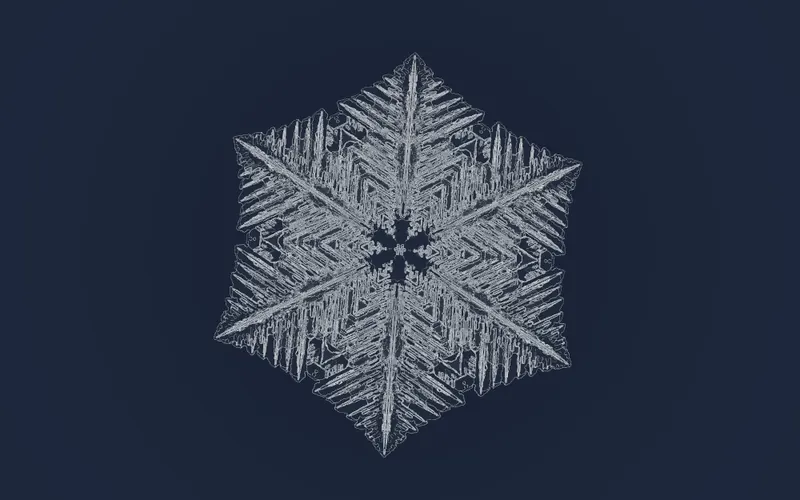
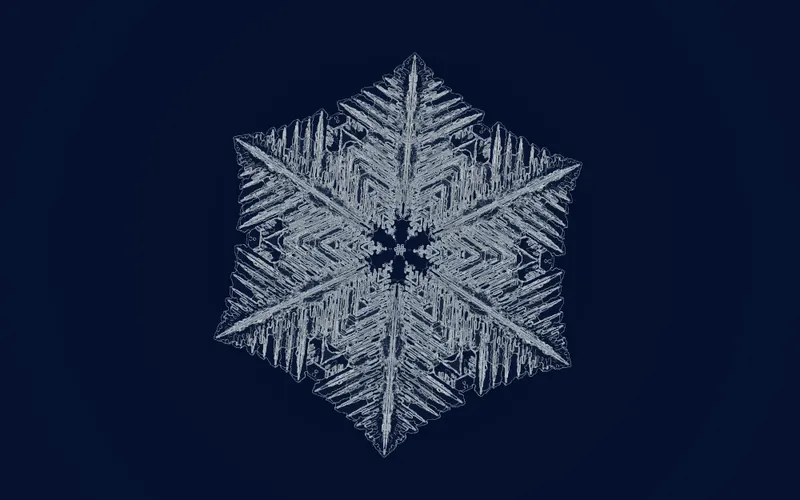
snowflake: AgX tone mapping, exact Fresnel with 32 bounces, focus blur
Ideas from anotherRaytracer:
- AgX filmic tone mapping instead of Reinhard plus gamma, which lifted the
  dark backgrounds to navy and gray.
- Paths reflect or refract by Fresnel's exact odds, so every weight is 1.
  The clamped-and-reweighted picks were the scheme anotherRaytracer found
  made glass up to half too dark.
- A white furnace test (snow.settings.furnace) showed light trapped past 8
  bounces going missing: the fern averaged 184.8 against a background of
  202, with pockets down to 29. At 32 bounces it reads 199-201. The first
  16 frames after any change, and growth, still use 8, so growing and
  orbiting keep their speed (about 3000 steps in 12 s, unchanged).
  Settling takes about 14 s instead of 7.
- A thin lens adds a macro photo's shallow focus (Focus blur and Focus in
  Look).
- The color backlight's blue is dimmed for AgX.

Dispersion was tried and dropped. Even at 3x ice's real spread, it only
made colored grain, on ferns and on plain plates and columns alike.

diff --git a/snowflake/render.js b/snowflake/render.js
@@ -19,8 +19,9 @@ struct View {
   pos: vec3f, zoom: f32,
   fwd: vec3f, aspect: f32,
   right: vec3f, light: i32,
-  up: vec3f, ice: f32,
+  up: vec3f, aperture: f32, // the lens's radius, for depth of field
   n: i32, nz: i32, layer: i32, bounces: i32,
+  focus: f32, // how far away things are sharp
 }
 @group(0) @binding(0) var<uniform> v: View;
 @group(0) @binding(1) var<storage, read> a: array<f32>;
@@ -170,10 +171,11 @@ fn env(d: vec3f) -> vec3f {
   if (v.light == 1) {
     // Rheinberg: a blue disk behind the crystal, a ring warm above and cool
     // below
-    let back = vec3f(0.004, 0.012, 0.06) * (1.0 - smoothstep(0.4, 0.6, ang));
+    let back = vec3f(0.003, 0.007, 0.03) * (1.0 - smoothstep(0.4, 0.6, ang));
     let lamps = mix(vec3f(0.4, 0.75, 1.0), vec3f(1.0, 0.55, 0.15), side);
     return back + lamps * ring * 2.5 + vec3f(0.06, 0.07, 0.1) * front * front;
   }
+  if (v.light == 3) { return vec3f(1.0); } // white furnace, for testing
   if (v.light == 2) {
     let sun = normalize(vec3f(0.6, 0.7, -0.4));
     let sky = mix(vec3f(0.55, 0.65, 0.8), vec3f(0.85, 0.9, 1.0), d.y)
@@ -196,42 +198,38 @@ fn rand() -> f32 {
 }
 
 /** Light reaching the camera along a ray that just hit ice at t. A path
-    tracer: at each surface the light either reflects or goes through, and one
-    of the two is followed at random. The frames average them out. */
+    tracer: at each surface the light either reflects or goes through, picked
+    at random by Fresnel's odds, and the frames average them out. */
 fn shade(o: vec3f, d0: vec3f, t: f32) -> vec3f {
-  let eta = v.ice;
+  let eta = 1.31; // ice's index of refraction
   let f0 = ((eta - 1.0) / (eta + 1.0)) * ((eta - 1.0) / (eta + 1.0));
   var p = o + d0 * t;
   var d = d0;
   var inside = false;
-  var weight = 1.0;
   for (var k = 0; k < v.bounces; k++) {
     var n = normal(p, d);
     if (dot(n, d) > 0.0) { n = -n; } // facing where the light comes from
     let through = refract(d, n, select(1.0 / eta, eta, inside));
-    // Schlick's Fresnel, with the angle on the air side
+    // Schlick's Fresnel, with the angle on the air side. Picking by the
+    // exact odds keeps every path's weight 1: reweighting picks (reflect
+    // more often, count each for less) gives a few paths huge weights, which
+    // made glass sponges in anotherRaytracer render up to half too dark.
     let c = select(-dot(d, n), -dot(through, n), inside);
     let f = f0 + (1.0 - f0) * pow(1.0 - clamp(c, 0.0, 1.0), 5.0);
-    // Reflections are only a few percent, but picking them that rarely
-    // leaves them speckled, so they're picked more often and weighted down
-    let q = clamp(f, 0.2, 0.8);
-    if (dot(through, through) < 0.5) {
-      d = reflect(d, n); // all of it reflects when it can't get out
-    } else if (rand() < q) {
+    if (dot(through, through) < 0.5 || rand() < f) {
       d = reflect(d, n);
-      weight *= f / q;
     } else {
       d = through;
-      weight *= (1.0 - f) / (1.0 - q);
       inside = !inside;
     }
     let span = bounds(p, d);
     let te = crossing(p, d, 0.05, min(span.y + 1.0, FAR), inside);
     // out into the light, or deep in the branches: let it out the way it goes
-    if (te < 0.0) { break; }
+    if (te < 0.0) { return env(d); }
     p = p + d * te;
   }
-  return weight * env(d);
+  // Still bouncing: let it out the way it's going
+  return select(env(d), vec3f(0.0), v.light == 3);
 }
 
 @vertex
@@ -255,10 +253,15 @@ struct Frame {
 fn fs(@builtin(position) pix: vec4f) -> @location(0) vec4f {
   let xy = pix.xy + frame.jitter;
   let uv = vec2f(xy.x / frame.size.x - 0.5, 0.5 - xy.y / frame.size.y);
-  let d = normalize(v.fwd + v.right * uv.x * v.zoom * v.aspect + v.up * uv.y * v.zoom);
-  let o = v.pos;
   seed = u32(pix.x) * 1973u + u32(pix.y) * 9277u + frame.seed * 26699u;
   rand();
+  // A thin lens: rays from across its disk meet at the focus distance
+  let aim = normalize(v.fwd + v.right * uv.x * v.zoom * v.aspect + v.up * uv.y * v.zoom);
+  let sharp = v.pos + aim * (v.focus / dot(aim, v.fwd));
+  let r = v.aperture * sqrt(rand());
+  let ang = 2.0 * PI * rand();
+  let o = v.pos + (v.right * cos(ang) + v.up * sin(ang)) * r;
+  let d = normalize(sharp - o);
   var col = env(d);
   let span = bounds(o, d);
   if (span.x < span.y) {
@@ -287,11 +290,39 @@ fn vs(@builtin(vertex_index) i: u32) -> @builtin(position) vec4f {
   return vec4f(uv * 2.0 - 1.0, 0.0, 1.0);
 }
 
+/** AgX filmic tone mapping (Troy Sobotka's, with Benjamin Wrensch's
+    polynomial fit and Blender's "punchy" look), copied from
+    anotherRaytracer's shaders/tone.js. Like film, it rolls off shadows as
+    well as highlights, so the dark background stays dark, and bright colors
+    fade toward white. Its output is already encoded for the screen. */
+fn agx(c: vec3f) -> vec3f {
+  let inset = mat3x3f(
+    0.842479062253094, 0.0423282422610123, 0.0423756549057051,
+    0.0784335999999992, 0.878468636469772, 0.0784336,
+    0.0792237451477643, 0.0791661274605434, 0.879142973793104,
+  );
+  let lo = -12.47393;
+  let hi = 4.026069;
+  var x = clamp(log2(max(inset * c, vec3f(1e-10))), vec3f(lo), vec3f(hi));
+  x = (x - lo) / (hi - lo);
+  let x2 = x * x;
+  let x4 = x2 * x2;
+  x = 15.5 * x4 * x2 - 40.14 * x4 * x + 31.96 * x4 - 6.868 * x2 * x + 0.4298 * x2 + 0.1191 * x - 0.00232;
+  x = pow(max(x, vec3f(0.)), vec3f(1.35));
+  let luma = dot(x, vec3f(0.2126, 0.7152, 0.0722));
+  x = luma + 1.4 * (x - luma);
+  let outset = mat3x3f(
+    1.19687900512017, -0.0528968517574562, -0.0529716355144438,
+    -0.0980208811401368, 1.15190312990417, -0.0980434501171241,
+    -0.0990297440797205, -0.0989611768448433, 1.15107367264116,
+  );
+  return clamp(outset * x, vec3f(0.), vec3f(1.));
+}
+
 @fragment
 fn fs(@builtin(position) pix: vec4f) -> @location(0) vec4f {
-  var col = textureLoad(image, vec2i(pix.xy), 0).rgb * exposure;
-  col = col / (1.0 + col); // Reinhard
-  return vec4f(pow(col, vec3f(1.0 / 2.2)), 1.0);
+  let col = textureLoad(image, vec2i(pix.xy), 0).rgb * exposure;
+  return vec4f(agx(col), 1.0);
 }
 `;
 
@@ -320,7 +351,7 @@ export const makeRenderer = (device, format) => {
       size,
       usage: GPUBufferUsage.UNIFORM | GPUBufferUsage.COPY_DST,
     });
-  const view = uniform(80);
+  const view = uniform(96);
   const frameBuffer = uniform(32);
   const exposureBuffer = uniform(16);
   const linear = device.createSampler({
@@ -373,7 +404,7 @@ export const makeRenderer = (device, format) => {
    * @param {{width: number, height: number}} canvasSize
    * @param {ReturnType<import('./sim.js').makeSim>} sim
    * @param {{position: number[], forward: number[], right: number[], up: number[], zoom: number, distance: number}} camera
-   * @param {{exposure: number, ice: number, bounces: number, light: number}} look
+   * @param {{exposure: number, bounces: number, light: number, aperture: number, focus: number}} look
    * @param {boolean} growing whether the crystal changed since the last frame
    */
   const render = (encoder, context, canvasSize, sim, camera, look, growing) => {
@@ -411,7 +442,7 @@ export const makeRenderer = (device, format) => {
       return;
     }
 
-    const data = new ArrayBuffer(80);
+    const data = new ArrayBuffer(96);
     const f = new Float32Array(data);
     const i = new Int32Array(data);
     f.set(camera.position, 0);
@@ -421,11 +452,16 @@ export const makeRenderer = (device, format) => {
     f.set(camera.right, 8);
     i[11] = look.light;
     f.set(camera.up, 12);
-    f[15] = look.ice;
+    f[15] = look.aperture;
     i[16] = sim.n;
     i[17] = sim.nz;
     i[18] = sim.layer;
-    i[19] = look.bounces;
+    // While things change (growing, turning, the first frames after), the
+    // average is only a few frames deep, so following light trapped past 8
+    // bounces only costs time; skipping it keeps turning the camera smooth
+    const quick = growing || zoomed || frames < 16;
+    i[19] = quick ? Math.min(look.bounces, 8) : look.bounces;
+    f[20] = camera.distance + look.focus;
     device.queue.writeBuffer(view, 0, data);
 
     // While the crystal grows, keep some of the old frames to smooth out the

diff --git a/snowflake/main.js b/snowflake/main.js
@@ -32,8 +32,6 @@ const SIZES = {
 };
 /** Most steps per frame; the loop takes fewer to keep about 30 frames a second */
 const SPEEDS = {Slow: 4, Normal: 60, Fast: 200};
-/** Refractive index of ice */
-const ICE = 1.31;
 /** How the crystal is lit, as in photos of real ones */
 const LIGHTS = {
   'Dark field': 0,
@@ -50,7 +48,9 @@ const settings = {
   time: 1,
   light: 'Dark field',
   exposure: 1.5,
-  bounces: 8,
+  bounces: 32,
+  blur: 0.5,
+  focus: 0,
   resolution: 1,
   manual: false,
   restart: () => restart(),
@@ -323,7 +323,9 @@ gui.add(settings, 'size', Object.keys(SIZES)).name('Grid').onChange(restart);
 gui.add(settings, 'light', Object.keys(LIGHTS)).name('Lighting').onChange(save);
 const look = gui.addFolder('Look').close();
 look.add(settings, 'exposure', 0.1, 8).name('Exposure');
-look.add(settings, 'bounces', 1, 16, 1).name('Light bounces');
+look.add(settings, 'blur', 0, 3).name('Focus blur');
+look.add(settings, 'focus', -1, 1).name('Focus nearer/farther');
+look.add(settings, 'bounces', 1, 64, 1).name('Light bounces');
 look.add(settings, 'resolution', 0.25, 2, 0.05).name('Pixels per point');
 const model = gui.addFolder('Model').close();
 model.add(settings, 'manual').name('Ignore the chart');
@@ -369,6 +371,8 @@ const frame = (stepCount) => {
     settings.bounces,
     settings.resolution,
     settings.light,
+    settings.blur,
+    settings.focus,
   ]);
   if (view !== lastView) renderer.restart();
   lastView = view;
@@ -378,7 +382,13 @@ const frame = (stepCount) => {
     canvas,
     sim,
     basis(),
-    {...settings, ice: ICE, light: LIGHTS[settings.light]},
+    {
+      ...settings,
+      light: settings.furnace ? 3 : LIGHTS[settings.light],
+      // in units of the crystal's size, which the camera keeps in view
+      aperture: settings.blur * 0.1 * camera.fit,
+      focus: settings.focus * camera.fit,
+    },
     stepCount > 0 || rewound,
   );
   const read = sim.readExtents(encoder);

diff --git a/snowflake/CLAUDE.md b/snowflake/CLAUDE.md
@@ -3,7 +3,10 @@
 - Scripts (run from the repo root, they drive the installed Chrome with Playwright): `.tune.mjs` grows cases and makes a montage (use it for comparing parameters, with a side view at camera pitch ~0.12), `.live.mjs` samples fps like a visitor, `.perf.mjs` times steps vs. frames, `.check.mjs` clicks through timeline, replay and random weather. Paths in scripts are `[T °C, supersaturation over ice %]`.
 - `a` holds the step each cell joined (+1), not 0/1. Anything that counts neighbors must test `!= 0`.
 - The renderer only averages while things change; it caps its frame count while growing so the finished crystal still gets its full average (256 frames, about 7 s). Before that fix the final picture had no antialiasing at all and ferns looked speckled.
-- The renderer is a path tracer: one random path per pixel per frame, reflect or refract picked with probability clamped to 0.2-0.8 and weighted back (reflections are ~2% and picked that rarely they speckle). 64 frames left the fern grainy; 256 is smooth. 16 bounces looked the same as 8. Growing fps is unchanged from the old one-path Whitted tracer (~30).
+- The renderer is a path tracer: one random path per pixel per frame, reflecting or refracting by Fresnel's exact odds, so every path's weight stays 1. An earlier version picked with odds clamped to 0.2-0.8 and reweighted; anotherRaytracer found that scheme gives heavy-tailed weights (glass sponges up to half too dark), so it was dropped. 64 frames left the fern grainy; it averages 256.
+- White furnace test: `snow.settings.furnace = true` lights everything with plain white and counts paths still bouncing at the limit as black, so correct ice vanishes into the background. Fern, green channel, background 202: 8 bounces 184.8 in the crystal (pockets down to 29), 32 bounces 199-201. So 32 is the default, but only once things are still: the first 16 frames after any change, and growth, use 8. 32 bounces all the time cut growth from ~3000 steps in 12 s to ~1900 in 21 s, since the step loop gets whatever time rendering leaves; once settled it renders at ~18 fps, so the full average takes ~14 s.
+- Dispersion (one wavelength per path, ice's Cauchy fit through 1.3091 at 589 nm and 1.3135 at 486 nm, anotherRaytracer's wavelengthColor) was tried and dropped: even at 3x ice's spread and with each frame taking its own part of the spectrum, it only gave colored grain, on ferns and on plain plates and columns. The interpolated field's normals are too rough, and the jitter and random Fresnel choices send each frame down different paths, for colors to separate coherently.
+- Tone mapping is AgX, copied from anotherRaytracer's shaders/tone.js. Reinhard plus gamma lifted the dark backgrounds to navy and gray.
 - `rand()` must stay under 1: when it could return exactly 1.0, total internal reflection (q = 1) fell through to the refract branch, weight 0/0 = NaN, and the camera's zoom resampling spread that pixel into a black square that never went away. NaN checks in the shader hid it, which made it look intermittent.
 - Fresnel inside the ice uses the angle on the air side (Schlick is only right that way); the old tracer used the inside angle and got too little reflection near total internal reflection.
 - Fern tuning (Nov 2026): top threshold b01 at plateness 1 went 3 → 4, thinning the fern star from about 25 to 17-19 cells thick with its branches intact. b01 ≥ 5 (even with rho up to 0.6) makes thin crystals fill in to plain hexagonal plates; mu 0.01 or kappa 0.05 didn't help.

diff --git a/snowflake/README.md b/snowflake/README.md
@@ -6,4 +6,4 @@ The chart in the corner is temperature across and supersaturation over ice up: h
 
 Each cell remembers when it joined, so Rewind shows the crystal at any earlier moment, with the dot back where the weather was then, and Replay the growth plays it back. The URL keeps the path and grid size, so a link grows the same crystal.
 
-The preview is path traced: rays march through the cells, and at each surface of the ice they either reflect or bend through it, picked at random by Fresnel's odds, until they get out to the light. Averaging the frames adds up every way light gets through the crystal, including light bouncing between branches. Lighting copies how real snowflakes are photographed: dark field (a ring of light behind the crystal, so flat ice looks dark and edges and ridges glow), a colored Rheinberg backlight like Libbrecht's photos, or outdoors on a dark mitten under an overcast sky. Drag to orbit, scroll or pinch to zoom.
+The preview is path traced: rays march through the cells, and at each surface of the ice they either reflect or bend through it, picked at random by Fresnel's odds, until they get out to the light (up to 32 bounces once the crystal is still). Averaging the frames adds up every way light gets through the crystal, including light bouncing between branches. A thin lens gives a macro photo's shallow focus (Focus blur, in Look), and AgX filmic tone mapping keeps the background dark and fades the brightest glints toward white, as film does. Lighting copies how real snowflakes are photographed: dark field (a ring of light behind the crystal, so flat ice looks dark and edges and ridges glow), a colored Rheinberg backlight like Libbrecht's photos, or outdoors on a dark mitten under an overcast sky. Drag to orbit, scroll or pinch to zoom.
